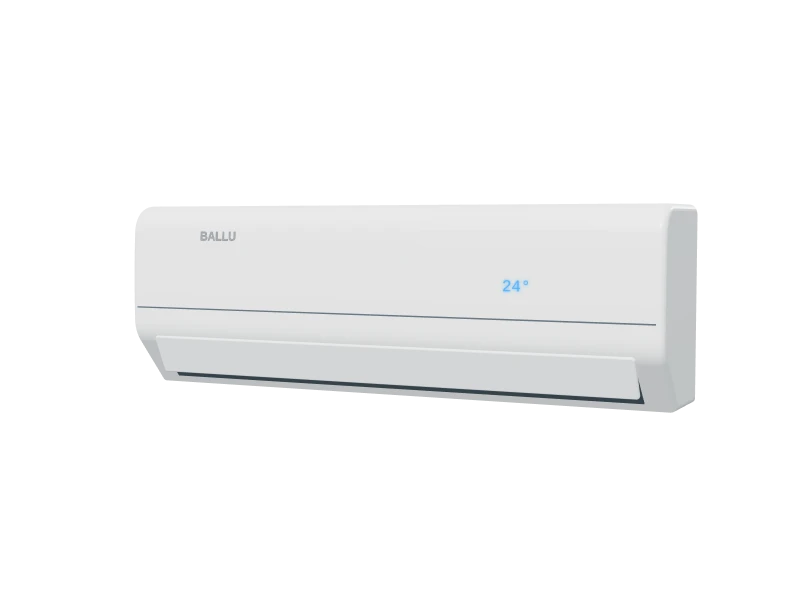
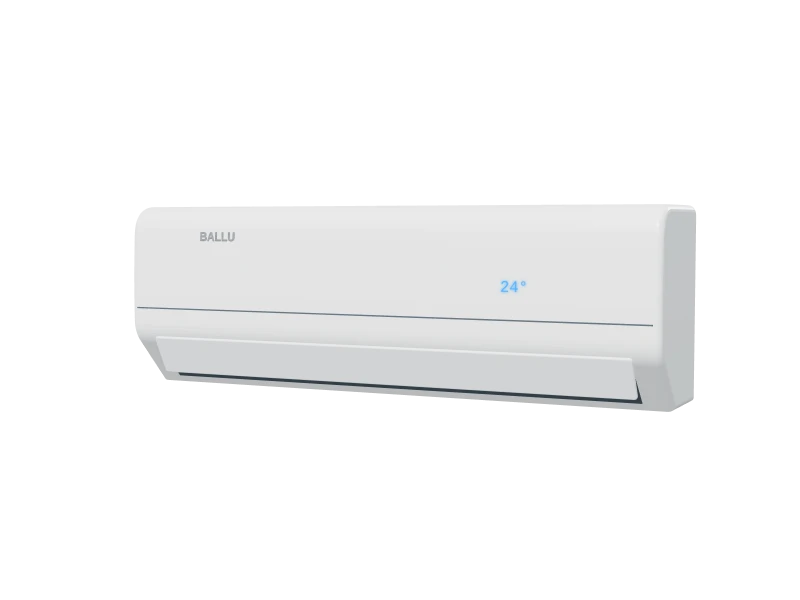
3D models: real sizes from the spec sheets
Indoor and outdoor units take width, height and depth from the manufacturers'
sheets (nearest model of the same series where the exact one was not found);
outdoor brand marks move onto the service panel; catalog pictures re-rendered.

Claude-Session: https://claude.ai/code/session_01WLrLLLi2rdf63T2Vn987aT

diff --git a/v10/viewer.js b/v10/viewer.js
@@ -37,9 +37,9 @@
   function decal(wpx, hpx, draw) { const c = document.createElement('canvas'); c.width = wpx; c.height = hpx; const x = c.getContext('2d'); draw(x, wpx, hpx);
     const t = new T3.CanvasTexture(c); t.encoding = T3.sRGBEncoding; t.anisotropy = 4; return t; }
   /* brand mark sized by its letter height: returns a plane of height hgt */
-  function logo(G, text, color, font, hgt, x, y, z, rx = 0) {
+  function logo(G, text, color, font, hgt, x, y, z, rx = 0, maxW = 9) {
     const f = font || '600 104px Helvetica, Arial, sans-serif', m = document.createElement('canvas').getContext('2d'); m.font = f;
-    const tw = Math.ceil(m.measureText(text).width) + 24, tex = decal(tw, 160, (c, w, h) => { c.fillStyle = color; c.textAlign = 'center'; c.textBaseline = 'middle'; c.font = f; c.fillText(text, w / 2, h / 2 + 4); });
+    const tw = Math.ceil(m.measureText(text).width) + 24; hgt = Math.min(hgt, maxW * 160 / tw); const tex = decal(tw, 160, (c, w, h) => { c.fillStyle = color; c.textAlign = 'center'; c.textBaseline = 'middle'; c.font = f; c.fillText(text, w / 2, h / 2 + 4); });
     return plane(G, tex, hgt * tw / 160, hgt, x, y, z, rx, { toneMapped: true }); }
   function displayTex(kind, color) { return decal(256, 96, (x, w, h) => {
     x.shadowColor = color; x.shadowBlur = 14; x.fillStyle = color;
@@ -89,8 +89,8 @@
 
   /* ---------------- outdoor unit ---------------- */
   function outdoor(G, o) {
-    const kw = o.kw || 2.6, fans = o.fans || 1, w = o.w || 1.75 + Math.min(.9, kw * .09), h = o.h || (fans === 2 ? 2.3 : 1.25 + Math.min(.6, kw * .06)), d = .66 + Math.min(.25, kw * .02);
-    const body = PAINT[o.body || 'matte'](), dark = M('#283238', .7), metal = M('#59666C', .5, .3), fx = -w * .12, fr = Math.min(h / fans * .4, w * .3);
+    const kw = o.kw || 2.6, fans = o.fans || 1, w = o.w || 1.75 + Math.min(.9, kw * .09), h = o.h || (fans === 2 ? 2.3 : 1.25 + Math.min(.6, kw * .06)), d = o.d || .66 + Math.min(.25, kw * .02);
+    const body = PAINT[o.body || 'matte'](), dark = M('#283238', .7), metal = M('#59666C', .5, .3), fx = -w * .12, fr = Math.min(h / fans * .36, w * .27);
     add(G, rbox(w, h, d, .05, .025), body);
     add(G, new T3.BoxGeometry(w * .2, h * .92, .02), M('#E1E4E5', .55), w / 2 - w * .13, 0, d / 2 + .006);   // service panel
     add(G, rbox(.2, .14, .03, .03, .008), M('#B8C0C4', .4, .4), w / 2 - w * .13, -h * .3, d / 2 + .02);
@@ -108,7 +108,7 @@
     }
     if (o.side) add(G, new T3.BoxGeometry(.012, h * .9, d * .9), PAINT[o.side](), -w / 2 - .004, 0, 0);
     for (let i = 0; i < 14; i++) add(G, new T3.BoxGeometry(.01, h * .8, .012), M('#C8CED1', .6), w / 2 + .004, 0, -d / 2 + .06 + i * (d - .12) / 13, [0, 0, 0]);   // side fins
-    if (o.logo) logo(G, o.logo.t, o.logo.c || '#6C777C', o.logo.font, .085, w / 2 - w * .3, h / 2 - .13, d / 2 + .008);
+    if (o.logo) logo(G, o.logo.t, o.logo.c || '#6C777C', o.logo.font, .085, w / 2 - w * .13, h / 2 - .14, d / 2 + .02, 0, w * .18);   // on the service panel
     [-w * .32, w * .32].forEach(x => add(G, new T3.BoxGeometry(.16, .08, d + .14), M('#8E989D', .5, .4), x, -h / 2 - .04, 0));
   }
 
@@ -120,7 +120,7 @@
     [[0, .86, 1.62, .16, 0], [0, -.86, 1.62, .16, 0], [.86, 0, .16, 1.62, 1], [-.86, 0, .16, 1.62, 1]].forEach(([x, z, a, c, r]) => { add(G, new T3.BoxGeometry(a, .02, c), M('#26323A', .7), x, -.075, z); add(G, new T3.BoxGeometry(r ? .12 : a * .98, .014, r ? c * .98 : .12), b, x, -.1, z, r ? [0, 0, x > 0 ? -.35 : .35] : [z > 0 ? .35 : -.35, 0, 0]); });
     add(G, new T3.BoxGeometry(1.7, .5, 1.7), M('#D7DCDE', .7, .1), 0, .32, 0);
     plane(G, displayTex('dots', '#3DA5FF'), .22, .08, .78, -.09, .78, -Math.PI / 2);
-    if (o.logo) logo(G, o.logo.t, '#7A858A', null, .08, -.6, -.091, .96, -Math.PI / 2, { toneMapped: true });
+    if (o.logo) logo(G, o.logo.t, '#7A858A', null, .08, -.6, -.091, .96, -Math.PI / 2);
     G.rotation.x = -.9; }
   function ducted(G, o) { const b = M('#C9D0D3', .4, .55);
     add(G, rbox(2.6, .5, 1.5, .03, .015), b, 0, 0, 0);
@@ -129,7 +129,7 @@
     add(G, new T3.BoxGeometry(2.2, .38, .08), M('#9AA4A9', .45, .5), 0, 0, -.79);
     add(G, new T3.BoxGeometry(.36, .4, .24), M('#E2E6E8', .5), 1.42, 0, .2);
     [-1.1, 1.1].forEach(x => add(G, new T3.BoxGeometry(.18, .06, 1.7), M('#7E888D', .5, .5), x, .28, 0));
-    if (o.logo) logo(G, o.logo.t, '#4E5A60', null, .08, -.7, .02, .752, 0, { toneMapped: true });
+    if (o.logo) logo(G, o.logo.t, '#4E5A60', null, .08, -.7, .02, .752, 0);
     G.rotation.x = .32; }
   function floorCeiling(G, o) { const b = PAINT.white(), w = 2.7, h = .72, d = 1.25;
     const S = sideShape({ d, h, bulge: .03, rt: .2, hb: h * .42, under: .5, rb: .1 }); G.rotation.x = .28;   // seen from below, as it hangs under the ceiling
@@ -137,7 +137,7 @@
     const y = S.yb - .06, z = S.front(S.yb) - .14; add(G, new T3.BoxGeometry(w * .86, .006, .4), PAINT.dark(), 0, y, z - .02, [.6, 0, 0]);
     add(G, rbox(w * .88, .16, .02, .03, .008), b, 0, y - .05, z + .08, [-.4, 0, 0]);
     plane(G, displayTex('digits', '#3DA5FF'), .3, .11, w * .32, .08, S.front(.08) + .066);
-    if (o.logo) logo(G, o.logo.t, '#7A858A', null, .08, -w * .32, .16, S.front(.16) + .066, 0, { toneMapped: true }); }
+    if (o.logo) logo(G, o.logo.t, '#7A858A', null, .08, -w * .32, .16, S.front(.16) + .066, 0); }
   function mobile(G, o) { const b = PAINT.white(), w = 1.05, h = 2.5, d = .85;
     add(G, rbox(w, h, d, .22, .08), b);
     add(G, rbox(w * .8, .5, .04, .1, .015), M('#2B363C', .6), 0, h * .32, d / 2 + .005);
@@ -147,7 +147,7 @@
     add(G, rbox(w * .7, h * .42, .02, .08, .006), M('#E6E9EA', .5), 0, -h * .18, d / 2 + .002);
     for (let i = 0; i < 10; i++) add(G, new T3.BoxGeometry(w * .6, .012, .012), M('#C0C7CA', .6), 0, -h * .36 + i * .08, d / 2 + .014);
     [-.36, .36].forEach(x => [-.28, .28].forEach(z => add(G, new T3.CylinderGeometry(.06, .06, .05, 20), M('#2A3238', .6), x, -h / 2 - .02, z, [0, 0, Math.PI / 2])));
-    if (o.logo) logo(G, o.logo.t, '#7A858A', null, .08, 0, h * .43, d / 2 + .005, 0, { toneMapped: true }); }
+    if (o.logo) logo(G, o.logo.t, '#7A858A', null, .08, 0, h * .43, d / 2 + .005, 0); }
 
   /* ---------------- per-product looks (indicative, after each series' real styling) ---------------- */
   const LG_FONT = '700 120px Helvetica, Arial, sans-serif', SERIF = '600 96px Georgia, serif';
@@ -176,13 +176,29 @@
     'ballu-floor-18': { grille: 'bars', logo: { t: 'BALLU' } },
   };
   const BRAND = { 'Royal Clima': 'ROYAL CLIMA', Ballu: 'BALLU', Midea: 'Midea' };
+  /* real sizes from the spec sheets, mm, width × height × depth (indoor, outdoor); 1 scene unit = 350 mm.
+     Where the exact model's sheet was not found, the nearest model of the same series stands in (noted). */
+  const DIM = {
+    'lg-artcool-09':         { in: [837, 308, 192], out: [717, 483, 230] },   // LG, AC09BQ
+    'mitsubishi-ln-25':      { in: [890, 307, 233], out: [800, 550, 285] },   // MSZ-LN25VG / MUZ-LN25VG
+    'hisense-expert-12':     { in: [978, 313, 217], out: [810, 585, 280] },   // same series, AS-13UW4RXVQF00
+    'midea-breezeless-09':   { in: [940, 325, 193] },                         // same series, MSFA2-09N8D6
+    'royal-clima-gloria-09': { in: [777, 250, 205] },                         // Gloria RC-GL28HN
+    'daikin-perfera-35':     { in: [804, 298, 252] },                         // Perfera FTXM35A
+    'haier-flexis-12':       { in: [856, 300, 197] },                         // same series, AS35S2SF4FA
+    'haier-coral-09':        { in: [800, 290, 200] },                         // Haier 2.0–2.5 kW wall unit of the same class
+    'ballu-olympio-07':      { in: [715, 285, 194] },                         // Ballu 07 wall unit of the same class
+    'ballu-igreen-24':       { in: [1080, 335, 226], out: [890, 673, 342] },  // Ballu 24 wall unit of the same class
+  };
+  const U = mm => mm / 350;
 
   /* builds the unit into a new group; returns { group, radius } */
   function build(p, which) {
     const G = new T3.Group(), id = p.id;
-    if (which === 'out') outdoor(G, Object.assign({ kw: p.kw }, OUT[id] || { grille: 'round', logo: { t: p.brand } }));
+    const dm = DIM[id] || {}, sized = (a, o) => a ? Object.assign(o, { w: U(a[0]), h: U(a[1]), d: U(a[2]) }) : o;
+    if (which === 'out') outdoor(G, sized(dm.out, Object.assign({ kw: p.kw }, OUT[id] || { grille: 'round', logo: { t: p.brand } })));
     else if (p.type === 'wall' || p.type === 'multi') {
-      const o = Object.assign({ kw: p.type === 'multi' ? 2.6 : p.kw }, SPEC[id] || { display: { kind: 'digits', c: '#5AC8FF', x: .5, y: .45 }, logo: { t: p.brand, x: -.6, y: .8, w: .34 } });
+      const o = sized(dm.in, Object.assign({ kw: p.type === 'multi' ? 2.6 : p.kw }, SPEC[id] || { display: { kind: 'digits', c: '#5AC8FF', x: .5, y: .45 }, logo: { t: p.brand, x: -.6, y: .8, w: .34 } }));
       if (o.multi) { const a = new T3.Group(), b = new T3.Group(); wall(a, o); wall(b, Object.assign({}, o, { kw: 3.5 })); a.position.set(-.35, .62, .35); b.position.set(.35, -.55, -.35); G.add(a, b); }
       else wall(G, o);
     }

diff --git a/viewer.js b/viewer.js
@@ -37,9 +37,9 @@
   function decal(wpx, hpx, draw) { const c = document.createElement('canvas'); c.width = wpx; c.height = hpx; const x = c.getContext('2d'); draw(x, wpx, hpx);
     const t = new T3.CanvasTexture(c); t.encoding = T3.sRGBEncoding; t.anisotropy = 4; return t; }
   /* brand mark sized by its letter height: returns a plane of height hgt */
-  function logo(G, text, color, font, hgt, x, y, z, rx = 0) {
+  function logo(G, text, color, font, hgt, x, y, z, rx = 0, maxW = 9) {
     const f = font || '600 104px Helvetica, Arial, sans-serif', m = document.createElement('canvas').getContext('2d'); m.font = f;
-    const tw = Math.ceil(m.measureText(text).width) + 24, tex = decal(tw, 160, (c, w, h) => { c.fillStyle = color; c.textAlign = 'center'; c.textBaseline = 'middle'; c.font = f; c.fillText(text, w / 2, h / 2 + 4); });
+    const tw = Math.ceil(m.measureText(text).width) + 24; hgt = Math.min(hgt, maxW * 160 / tw); const tex = decal(tw, 160, (c, w, h) => { c.fillStyle = color; c.textAlign = 'center'; c.textBaseline = 'middle'; c.font = f; c.fillText(text, w / 2, h / 2 + 4); });
     return plane(G, tex, hgt * tw / 160, hgt, x, y, z, rx, { toneMapped: true }); }
   function displayTex(kind, color) { return decal(256, 96, (x, w, h) => {
     x.shadowColor = color; x.shadowBlur = 14; x.fillStyle = color;
@@ -89,8 +89,8 @@
 
   /* ---------------- outdoor unit ---------------- */
   function outdoor(G, o) {
-    const kw = o.kw || 2.6, fans = o.fans || 1, w = o.w || 1.75 + Math.min(.9, kw * .09), h = o.h || (fans === 2 ? 2.3 : 1.25 + Math.min(.6, kw * .06)), d = .66 + Math.min(.25, kw * .02);
-    const body = PAINT[o.body || 'matte'](), dark = M('#283238', .7), metal = M('#59666C', .5, .3), fx = -w * .12, fr = Math.min(h / fans * .4, w * .3);
+    const kw = o.kw || 2.6, fans = o.fans || 1, w = o.w || 1.75 + Math.min(.9, kw * .09), h = o.h || (fans === 2 ? 2.3 : 1.25 + Math.min(.6, kw * .06)), d = o.d || .66 + Math.min(.25, kw * .02);
+    const body = PAINT[o.body || 'matte'](), dark = M('#283238', .7), metal = M('#59666C', .5, .3), fx = -w * .12, fr = Math.min(h / fans * .36, w * .27);
     add(G, rbox(w, h, d, .05, .025), body);
     add(G, new T3.BoxGeometry(w * .2, h * .92, .02), M('#E1E4E5', .55), w / 2 - w * .13, 0, d / 2 + .006);   // service panel
     add(G, rbox(.2, .14, .03, .03, .008), M('#B8C0C4', .4, .4), w / 2 - w * .13, -h * .3, d / 2 + .02);
@@ -108,7 +108,7 @@
     }
     if (o.side) add(G, new T3.BoxGeometry(.012, h * .9, d * .9), PAINT[o.side](), -w / 2 - .004, 0, 0);
     for (let i = 0; i < 14; i++) add(G, new T3.BoxGeometry(.01, h * .8, .012), M('#C8CED1', .6), w / 2 + .004, 0, -d / 2 + .06 + i * (d - .12) / 13, [0, 0, 0]);   // side fins
-    if (o.logo) logo(G, o.logo.t, o.logo.c || '#6C777C', o.logo.font, .085, w / 2 - w * .3, h / 2 - .13, d / 2 + .008);
+    if (o.logo) logo(G, o.logo.t, o.logo.c || '#6C777C', o.logo.font, .085, w / 2 - w * .13, h / 2 - .14, d / 2 + .02, 0, w * .18);   // on the service panel
     [-w * .32, w * .32].forEach(x => add(G, new T3.BoxGeometry(.16, .08, d + .14), M('#8E989D', .5, .4), x, -h / 2 - .04, 0));
   }
 
@@ -120,7 +120,7 @@
     [[0, .86, 1.62, .16, 0], [0, -.86, 1.62, .16, 0], [.86, 0, .16, 1.62, 1], [-.86, 0, .16, 1.62, 1]].forEach(([x, z, a, c, r]) => { add(G, new T3.BoxGeometry(a, .02, c), M('#26323A', .7), x, -.075, z); add(G, new T3.BoxGeometry(r ? .12 : a * .98, .014, r ? c * .98 : .12), b, x, -.1, z, r ? [0, 0, x > 0 ? -.35 : .35] : [z > 0 ? .35 : -.35, 0, 0]); });
     add(G, new T3.BoxGeometry(1.7, .5, 1.7), M('#D7DCDE', .7, .1), 0, .32, 0);
     plane(G, displayTex('dots', '#3DA5FF'), .22, .08, .78, -.09, .78, -Math.PI / 2);
-    if (o.logo) logo(G, o.logo.t, '#7A858A', null, .08, -.6, -.091, .96, -Math.PI / 2, { toneMapped: true });
+    if (o.logo) logo(G, o.logo.t, '#7A858A', null, .08, -.6, -.091, .96, -Math.PI / 2);
     G.rotation.x = -.9; }
   function ducted(G, o) { const b = M('#C9D0D3', .4, .55);
     add(G, rbox(2.6, .5, 1.5, .03, .015), b, 0, 0, 0);
@@ -129,7 +129,7 @@
     add(G, new T3.BoxGeometry(2.2, .38, .08), M('#9AA4A9', .45, .5), 0, 0, -.79);
     add(G, new T3.BoxGeometry(.36, .4, .24), M('#E2E6E8', .5), 1.42, 0, .2);
     [-1.1, 1.1].forEach(x => add(G, new T3.BoxGeometry(.18, .06, 1.7), M('#7E888D', .5, .5), x, .28, 0));
-    if (o.logo) logo(G, o.logo.t, '#4E5A60', null, .08, -.7, .02, .752, 0, { toneMapped: true });
+    if (o.logo) logo(G, o.logo.t, '#4E5A60', null, .08, -.7, .02, .752, 0);
     G.rotation.x = .32; }
   function floorCeiling(G, o) { const b = PAINT.white(), w = 2.7, h = .72, d = 1.25;
     const S = sideShape({ d, h, bulge: .03, rt: .2, hb: h * .42, under: .5, rb: .1 }); G.rotation.x = .28;   // seen from below, as it hangs under the ceiling
@@ -137,7 +137,7 @@
     const y = S.yb - .06, z = S.front(S.yb) - .14; add(G, new T3.BoxGeometry(w * .86, .006, .4), PAINT.dark(), 0, y, z - .02, [.6, 0, 0]);
     add(G, rbox(w * .88, .16, .02, .03, .008), b, 0, y - .05, z + .08, [-.4, 0, 0]);
     plane(G, displayTex('digits', '#3DA5FF'), .3, .11, w * .32, .08, S.front(.08) + .066);
-    if (o.logo) logo(G, o.logo.t, '#7A858A', null, .08, -w * .32, .16, S.front(.16) + .066, 0, { toneMapped: true }); }
+    if (o.logo) logo(G, o.logo.t, '#7A858A', null, .08, -w * .32, .16, S.front(.16) + .066, 0); }
   function mobile(G, o) { const b = PAINT.white(), w = 1.05, h = 2.5, d = .85;
     add(G, rbox(w, h, d, .22, .08), b);
     add(G, rbox(w * .8, .5, .04, .1, .015), M('#2B363C', .6), 0, h * .32, d / 2 + .005);
@@ -147,7 +147,7 @@
     add(G, rbox(w * .7, h * .42, .02, .08, .006), M('#E6E9EA', .5), 0, -h * .18, d / 2 + .002);
     for (let i = 0; i < 10; i++) add(G, new T3.BoxGeometry(w * .6, .012, .012), M('#C0C7CA', .6), 0, -h * .36 + i * .08, d / 2 + .014);
     [-.36, .36].forEach(x => [-.28, .28].forEach(z => add(G, new T3.CylinderGeometry(.06, .06, .05, 20), M('#2A3238', .6), x, -h / 2 - .02, z, [0, 0, Math.PI / 2])));
-    if (o.logo) logo(G, o.logo.t, '#7A858A', null, .08, 0, h * .43, d / 2 + .005, 0, { toneMapped: true }); }
+    if (o.logo) logo(G, o.logo.t, '#7A858A', null, .08, 0, h * .43, d / 2 + .005, 0); }
 
   /* ---------------- per-product looks (indicative, after each series' real styling) ---------------- */
   const LG_FONT = '700 120px Helvetica, Arial, sans-serif', SERIF = '600 96px Georgia, serif';
@@ -176,13 +176,29 @@
     'ballu-floor-18': { grille: 'bars', logo: { t: 'BALLU' } },
   };
   const BRAND = { 'Royal Clima': 'ROYAL CLIMA', Ballu: 'BALLU', Midea: 'Midea' };
+  /* real sizes from the spec sheets, mm, width × height × depth (indoor, outdoor); 1 scene unit = 350 mm.
+     Where the exact model's sheet was not found, the nearest model of the same series stands in (noted). */
+  const DIM = {
+    'lg-artcool-09':         { in: [837, 308, 192], out: [717, 483, 230] },   // LG, AC09BQ
+    'mitsubishi-ln-25':      { in: [890, 307, 233], out: [800, 550, 285] },   // MSZ-LN25VG / MUZ-LN25VG
+    'hisense-expert-12':     { in: [978, 313, 217], out: [810, 585, 280] },   // same series, AS-13UW4RXVQF00
+    'midea-breezeless-09':   { in: [940, 325, 193] },                         // same series, MSFA2-09N8D6
+    'royal-clima-gloria-09': { in: [777, 250, 205] },                         // Gloria RC-GL28HN
+    'daikin-perfera-35':     { in: [804, 298, 252] },                         // Perfera FTXM35A
+    'haier-flexis-12':       { in: [856, 300, 197] },                         // same series, AS35S2SF4FA
+    'haier-coral-09':        { in: [800, 290, 200] },                         // Haier 2.0–2.5 kW wall unit of the same class
+    'ballu-olympio-07':      { in: [715, 285, 194] },                         // Ballu 07 wall unit of the same class
+    'ballu-igreen-24':       { in: [1080, 335, 226], out: [890, 673, 342] },  // Ballu 24 wall unit of the same class
+  };
+  const U = mm => mm / 350;
 
   /* builds the unit into a new group; returns { group, radius } */
   function build(p, which) {
     const G = new T3.Group(), id = p.id;
-    if (which === 'out') outdoor(G, Object.assign({ kw: p.kw }, OUT[id] || { grille: 'round', logo: { t: p.brand } }));
+    const dm = DIM[id] || {}, sized = (a, o) => a ? Object.assign(o, { w: U(a[0]), h: U(a[1]), d: U(a[2]) }) : o;
+    if (which === 'out') outdoor(G, sized(dm.out, Object.assign({ kw: p.kw }, OUT[id] || { grille: 'round', logo: { t: p.brand } })));
     else if (p.type === 'wall' || p.type === 'multi') {
-      const o = Object.assign({ kw: p.type === 'multi' ? 2.6 : p.kw }, SPEC[id] || { display: { kind: 'digits', c: '#5AC8FF', x: .5, y: .45 }, logo: { t: p.brand, x: -.6, y: .8, w: .34 } });
+      const o = sized(dm.in, Object.assign({ kw: p.type === 'multi' ? 2.6 : p.kw }, SPEC[id] || { display: { kind: 'digits', c: '#5AC8FF', x: .5, y: .45 }, logo: { t: p.brand, x: -.6, y: .8, w: .34 } }));
       if (o.multi) { const a = new T3.Group(), b = new T3.Group(); wall(a, o); wall(b, Object.assign({}, o, { kw: 3.5 })); a.position.set(-.35, .62, .35); b.position.set(.35, -.55, -.35); G.add(a, b); }
       else wall(G, o);
     }
